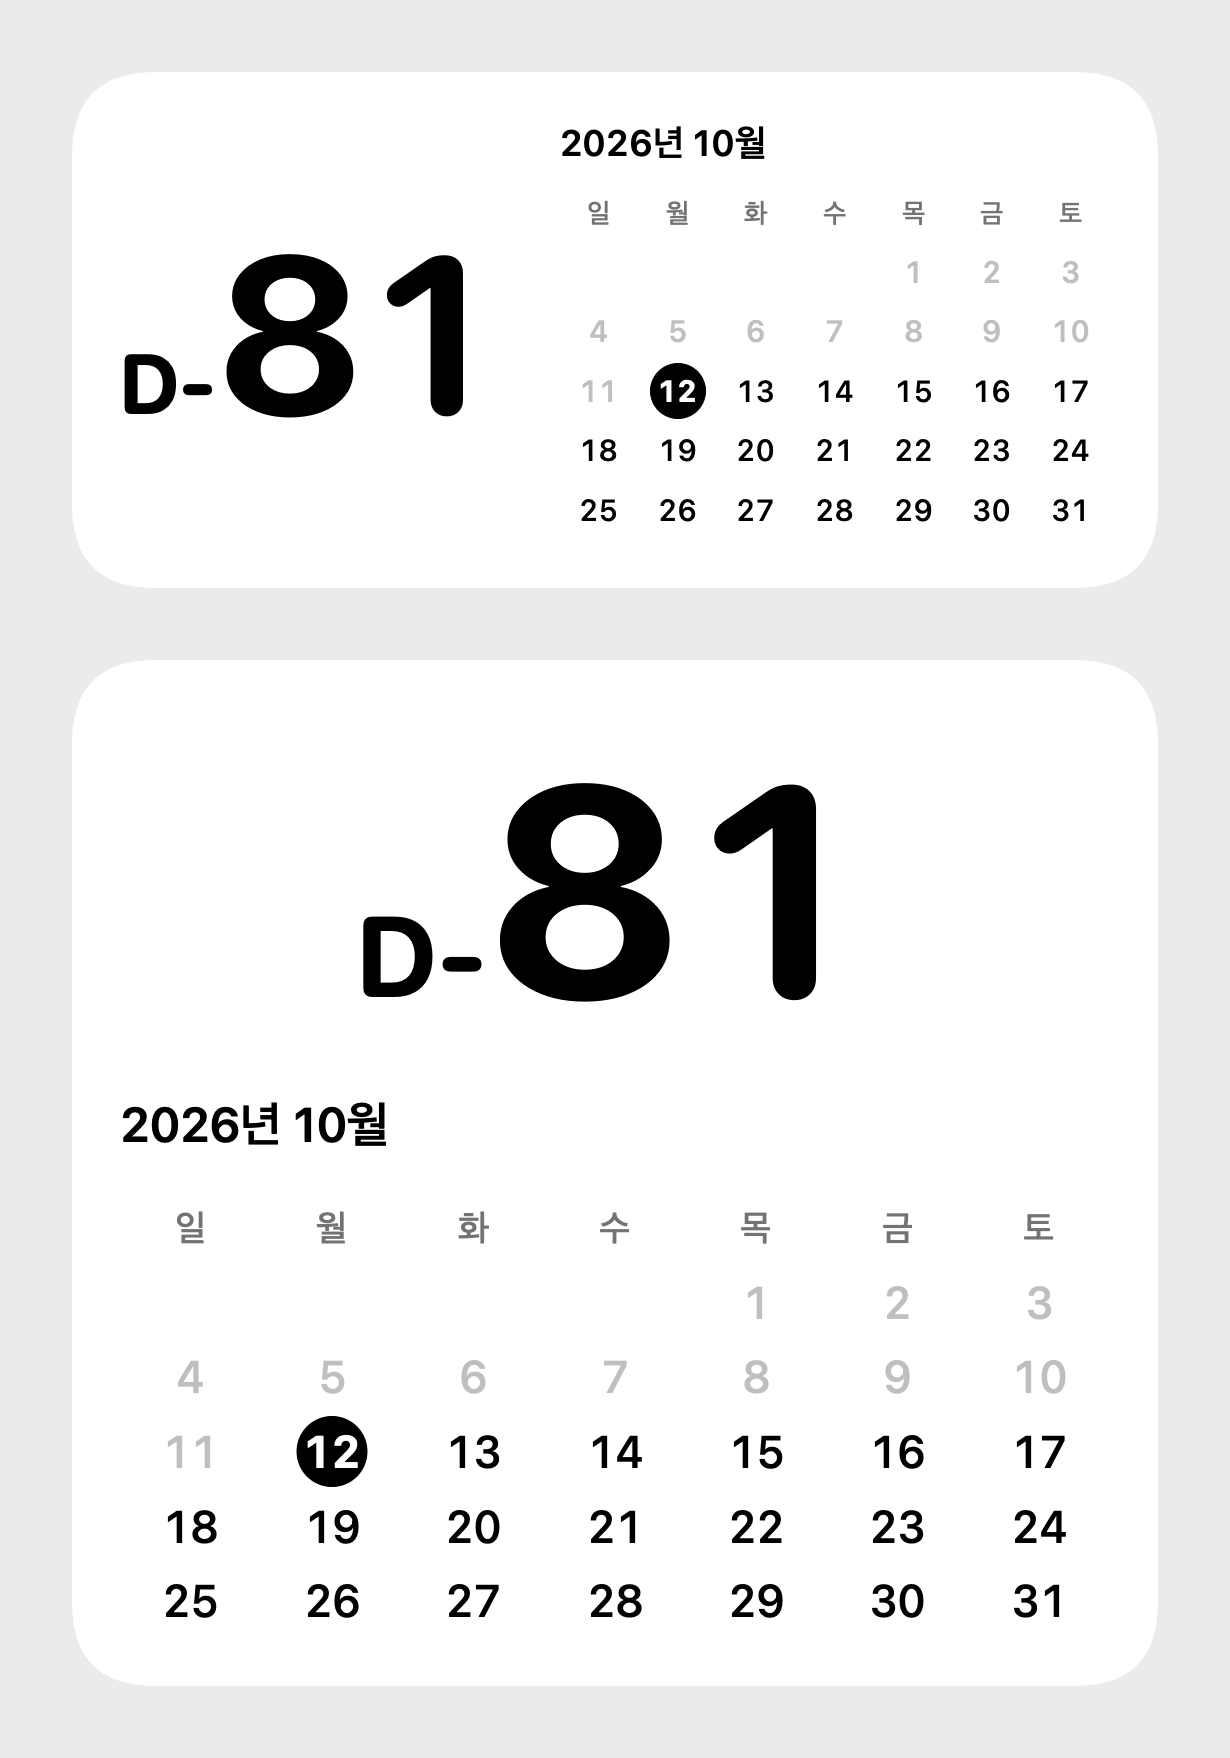
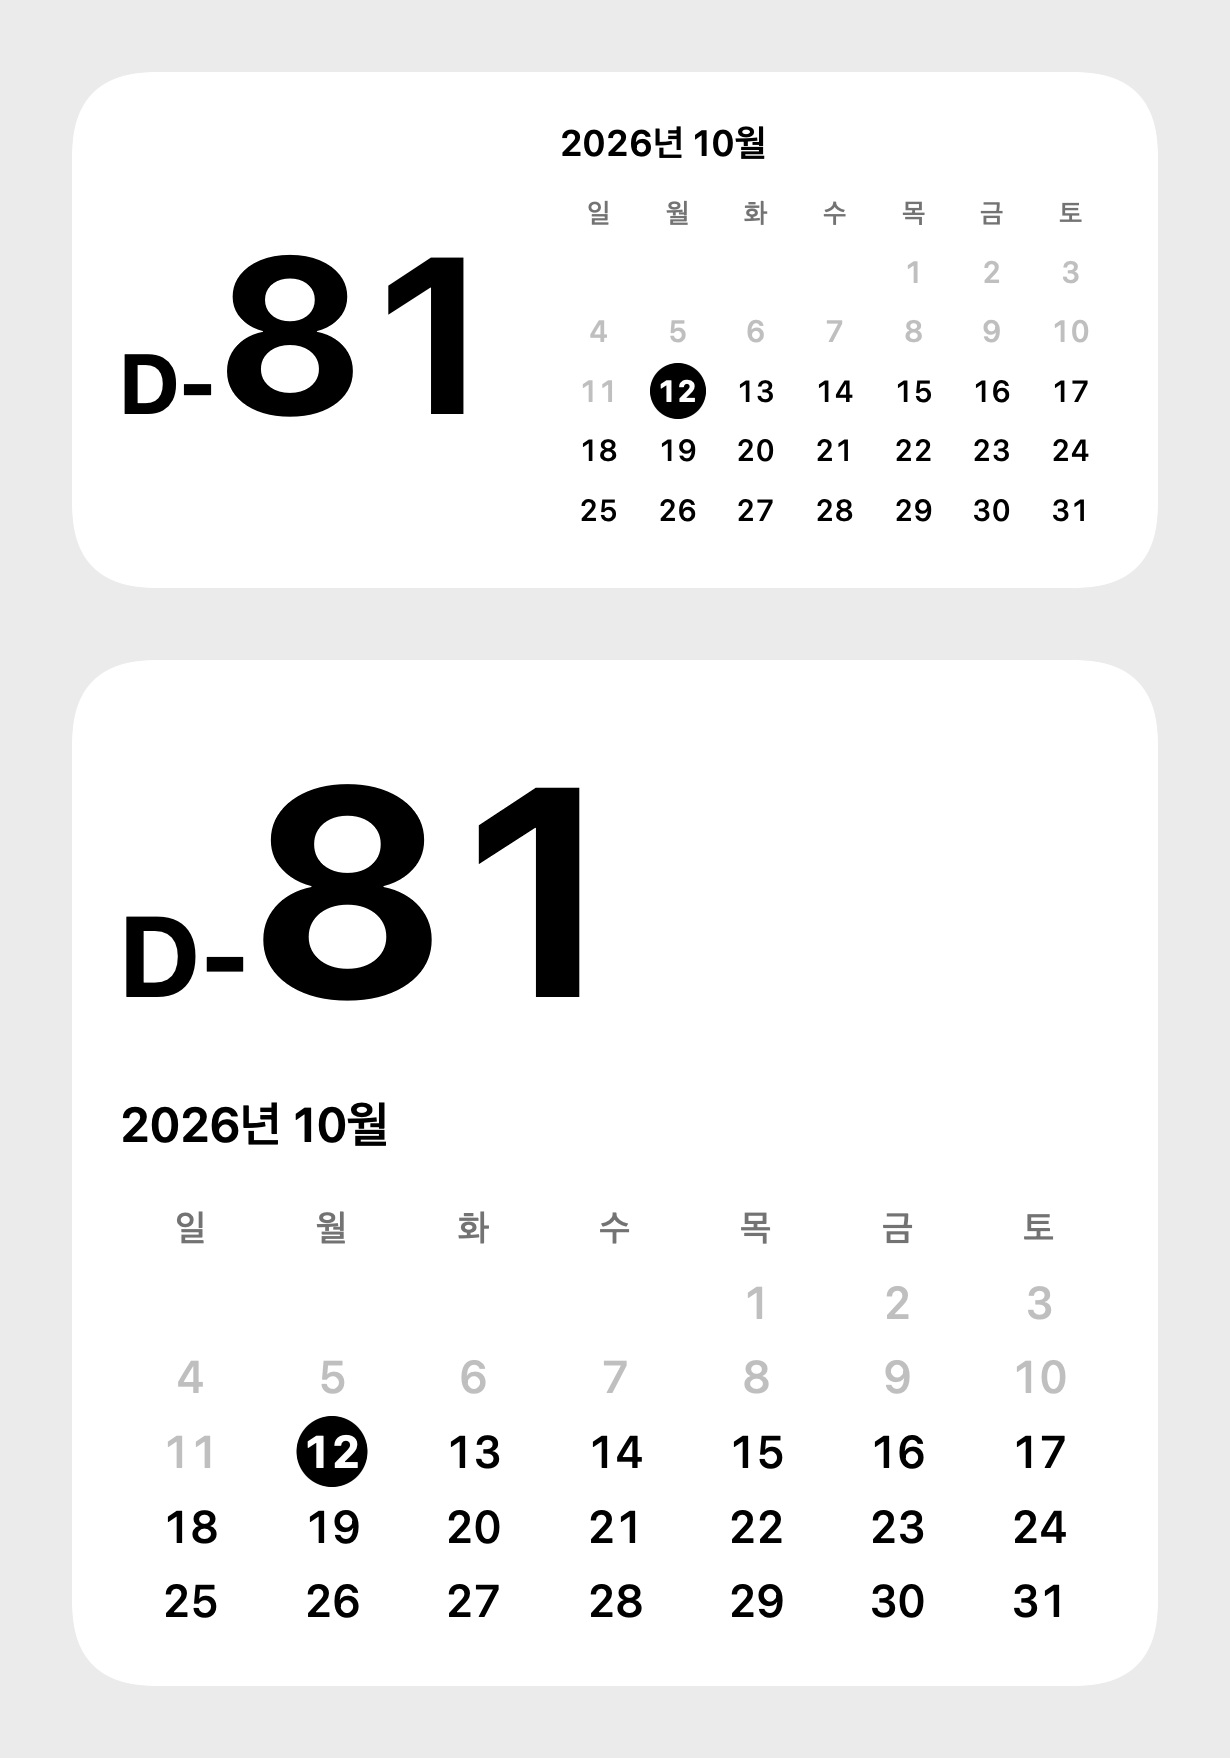
Align countdown left and add fullscreen calendar view

Changed region(s): [[0.0927, 0.43, 0.5561, 0.5836], [0.587, 0.43, 0.6797, 0.5836]]

diff --git a/Shared/CountdownView.swift b/Shared/CountdownView.swift
@@ -3,19 +3,20 @@ import SwiftUI
 struct CountdownView: View {
     let model: CountdownModel
     var large = false
+    var expanded = false
 
     var body: some View {
         GeometryReader { geometry in
             if large {
                 VStack(spacing: 12) {
-                    number(size: min(geometry.size.height * 0.34, 112))
-                        .frame(maxWidth: .infinity, maxHeight: geometry.size.height * 0.38)
+                    number(size: min(geometry.size.height * 0.34, expanded ? geometry.size.width * 0.46 : 112))
+                        .frame(maxWidth: .infinity, maxHeight: geometry.size.height * 0.38, alignment: .leading)
                     monthCalendar
                 }
             } else {
                 HStack(spacing: 18) {
                     number(size: min(geometry.size.width * 0.25, 96))
-                        .frame(width: geometry.size.width * 0.39)
+                        .frame(width: geometry.size.width * 0.39, alignment: .leading)
                     monthCalendar
                 }
             }
@@ -26,9 +27,9 @@ struct CountdownView: View {
     }
 
     private func number(size: CGFloat) -> some View {
-        (Text("D-").font(.system(size: size * 0.38, weight: .bold, design: .rounded))
+        (Text("D-").font(.system(size: size * 0.38, weight: .bold, design: .default))
         + Text(model.daysRemaining.formatted(.number.grouping(.never)))
-            .font(.system(size: size, weight: .bold, design: .rounded)))
+            .font(.system(size: size, weight: .bold, design: .default)))
             .monospacedDigit()
             .lineLimit(1)
             .minimumScaleFactor(0.45)
@@ -38,7 +39,7 @@ struct CountdownView: View {
     private var monthCalendar: some View {
         VStack(spacing: large ? 12 : 6) {
             Text(model.monthTitle)
-                .font(.system(size: large ? 16 : 12, weight: .semibold))
+                .font(.system(size: expanded ? 24 : (large ? 16 : 12), weight: .semibold))
                 .frame(maxWidth: .infinity, alignment: .leading)
             GeometryReader { geometry in
                 let rows = model.cells.count / 7 + 1
@@ -47,7 +48,7 @@ struct CountdownView: View {
                     HStack(spacing: 0) {
                         ForEach(Array(["일", "월", "화", "수", "목", "금", "토"].enumerated()), id: \.offset) { _, label in
                             Text(label)
-                                .font(.system(size: large ? 12 : 9, weight: .medium))
+                                .font(.system(size: expanded ? 18 : (large ? 12 : 9), weight: .medium))
                                 .foregroundStyle(Color(white: 0.45))
                                 .frame(maxWidth: .infinity)
                         }
@@ -70,10 +71,10 @@ struct CountdownView: View {
             let isToday = day == model.todayNumber
             let isPast = day < model.todayNumber
             Text("\(day)")
-                .font(.system(size: large ? 15 : 10, weight: isToday ? .bold : .medium))
+                .font(.system(size: expanded ? 24 : (large ? 15 : 10), weight: isToday ? .bold : .medium))
                 .monospacedDigit()
                 .foregroundStyle(isToday ? Color.white : (isPast ? Color(white: 0.75) : Color.black))
-                .frame(width: min(height - 1, large ? 30 : 20), height: min(height - 1, large ? 30 : 20))
+                .frame(width: min(height - 1, expanded ? 44 : (large ? 30 : 20)), height: min(height - 1, expanded ? 44 : (large ? 30 : 20)))
                 .background { if isToday { Circle().fill(Color.black) } }
                 .accessibilityLabel("\(day)일\(isToday ? ", 오늘" : (isPast ? ", 지난 날짜" : ""))")
         } else {

diff --git a/App/CountdownApp.swift b/App/CountdownApp.swift
@@ -9,11 +9,12 @@ import WidgetKit
 
 struct ContentView: View {
     @Environment(\.scenePhase) private var scenePhase
+    @State private var showFullscreen = true
     var body: some View {
         TimelineView(.periodic(from: .now, by: 60)) { context in
             ScrollView {
                 VStack(alignment: .leading, spacing: 28) {
-                    Text("2027").font(.system(size: 38, weight: .bold, design: .rounded))
+                    Text("2027").font(.system(size: 38, weight: .bold, design: .default))
                     Text("2027년 1월 1일까지").foregroundStyle(Color(white: 0.45))
                     CountdownView(model: CountdownModel(date: context.date))
                         .frame(height: 150).padding(20)
@@ -21,6 +22,12 @@ struct ContentView: View {
                     CountdownView(model: CountdownModel(date: context.date), large: true)
                         .frame(height: 320).padding(20)
                         .background(RoundedRectangle(cornerRadius: 24).stroke(Color(white: 0.88)))
+                    Button {
+                        showFullscreen = true
+                    } label: {
+                        Label("전체 화면 보기", systemImage: "arrow.up.left.and.arrow.down.right")
+                            .font(.headline).foregroundStyle(Color.black)
+                    }
                     VStack(alignment: .leading, spacing: 12) {
                         Text("홈 화면에 추가").font(.headline)
                         Text("홈 화면의 빈 공간을 길게 누른 뒤 편집 → 위젯 추가 → ‘2027’을 선택하세요. 가로형 또는 큰 위젯을 추가할 수 있습니다.")
@@ -30,8 +37,37 @@ struct ContentView: View {
                 }.padding(24)
             }.background(Color.white).foregroundStyle(Color.black)
         }
+        .fullScreenCover(isPresented: $showFullscreen) {
+            FullscreenCountdownView()
+        }
+        .onOpenURL { url in
+            if url.scheme == "countdown2027" { showFullscreen = true }
+        }
         .onChange(of: scenePhase) { _, phase in
             if phase == .active { WidgetCenter.shared.reloadAllTimelines() }
         }
+    }
+}
+
+
+struct FullscreenCountdownView: View {
+    @Environment(\.dismiss) private var dismiss
+    var body: some View {
+        TimelineView(.periodic(from: .now, by: 60)) { context in
+            CountdownView(model: CountdownModel(date: context.date), large: true, expanded: true)
+                .padding(.horizontal, 28)
+                .padding(.top, 44)
+                .padding(.bottom, 28)
+                .frame(maxWidth: .infinity, maxHeight: .infinity)
+                .background(Color.white.ignoresSafeArea())
+                .overlay(alignment: .topTrailing) {
+                    Button { dismiss() } label: {
+                        Image(systemName: "xmark").font(.system(size: 18, weight: .semibold))
+                            .foregroundStyle(Color(white: 0.45)).frame(width: 44, height: 44)
+                    }.accessibilityLabel("전체 화면 닫기").padding(.trailing, 12)
+                }
+        }
+        .preferredColorScheme(.light)
+        .statusBarHidden(true)
     }
 }

diff --git a/scripts/Preview.swift b/scripts/Preview.swift
@@ -16,6 +16,15 @@ import AppKit
         }.padding(24).background(Color(white: 0.92))
         let renderer = ImageRenderer(content: view)
         renderer.scale = 3
+        let fullscreen = CountdownView(model: model, large: true, expanded: true)
+            .frame(width: 346, height: 708)
+            .padding(.horizontal, 28).padding(.top, 44).padding(.bottom, 28)
+            .background(Color.white)
+        let screenRenderer = ImageRenderer(content: fullscreen)
+        screenRenderer.scale = 3
+        let screenBitmap = NSBitmapImageRep(cgImage: screenRenderer.cgImage!)
+        let screenPath = URL(fileURLWithPath: output).deletingLastPathComponent().appendingPathComponent("fullscreen-preview.png")
+        try! screenBitmap.representation(using: .png, properties: [:])!.write(to: screenPath)
         let bitmap = NSBitmapImageRep(cgImage: renderer.cgImage!)
         try! bitmap.representation(using: .png, properties: [:])!.write(to: URL(fileURLWithPath: output))
     }

diff --git a/Widget/CountdownWidget.swift b/Widget/CountdownWidget.swift
@@ -26,6 +26,7 @@ struct CountdownWidgetView: View {
     var body: some View {
         CountdownView(model: CountdownModel(date: entry.date), large: family == .systemLarge)
             .containerBackground(Color.white, for: .widget)
+            .widgetURL(URL(string: "countdown2027://fullscreen"))
     }
 }
 

diff --git a/README.md b/README.md
@@ -5,7 +5,9 @@
 - 흰색 배경에 검정·회색만 사용
 - 남은 날짜는 `D-81` 형식으로 표시하고 `D-`는 작게, 숫자는 큰 볼드로 표시
 - 지난 날짜는 흐린 회색, 오늘은 검정 원으로 강조
+- 기본 산세리프 서체 및 왼쪽 정렬
 - 중형(가로형)·대형 위젯 지원
+- 위젯을 누르면 카운트다운·달력을 전체 화면으로 표시
 - 기기 현지 시간대의 자정을 기준으로 날짜 계산 및 일주일치 위젯 타임라인 생성
 - 목표일 이후는 `0` 표시
 
